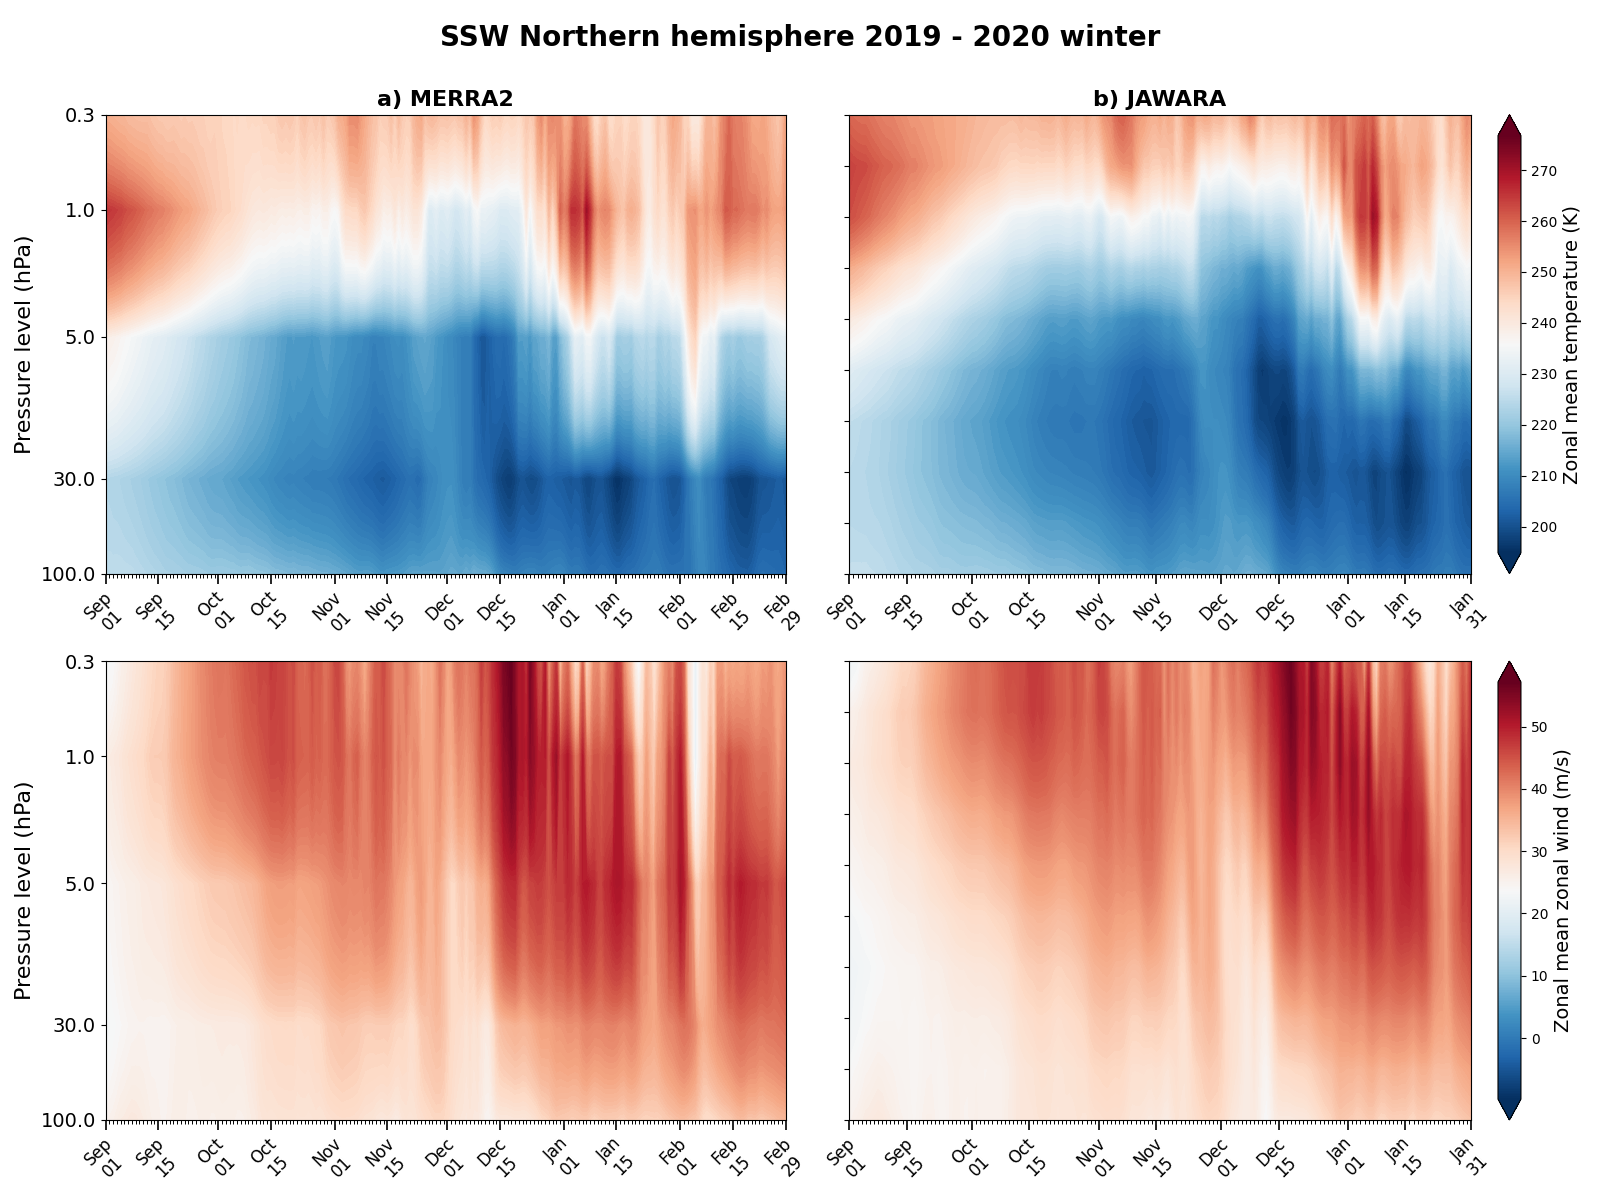
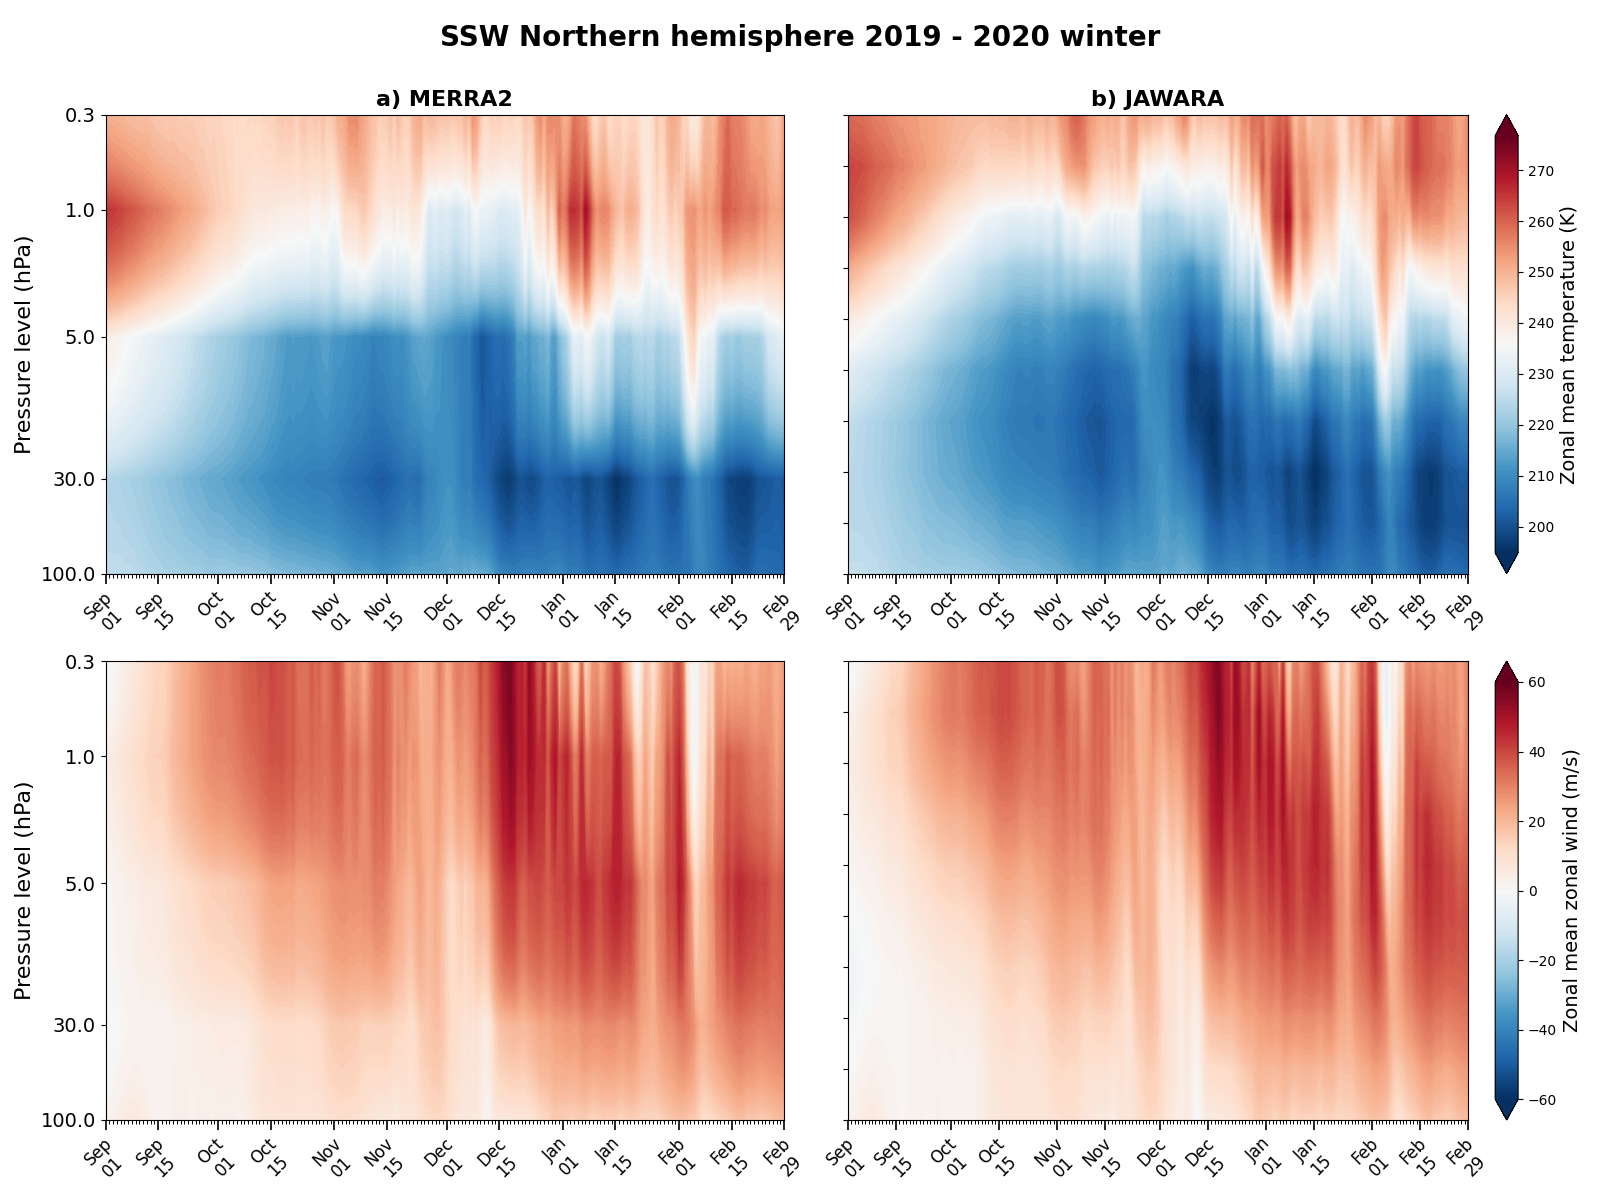
Grafy rozdílu merra a jawara

diff --git a/graphs.py b/graphs.py
@@ -6,22 +6,30 @@ from datetime import datetime
 from zpracovani import *
 
 def vykresli(ax, data, title, xlabels, ylabels, yticks, index, ncols,
-             vmin=None, vmax=None, cmap='RdBu_r', d=False):
+             vmin=None, vmax=None, cmap='RdBu_r', d=False, force_colorbar=False):
+
     data = np.array(data)
     y = np.array(ylabels, dtype=float)
     x = np.arange(len(xlabels))
 
     # Kontury
     if d:
-        cont = ax.contourf(x, y, data.T, cmap=cmap,
-                           vmin=-max(abs(vmin), abs(vmax), 4),
-                           vmax=max(abs(vmin), abs(vmax), 4),
-                           levels=100)
+        limit = max(abs(vmin), abs(vmax))
+        cont = ax.contourf(
+            x, y, data.T,
+            cmap=cmap,
+            vmin=-limit,
+            vmax=limit,
+            levels=100
+        )
     else:
-        cont = ax.contourf(x, y, data.T, cmap=cmap,
-                           vmin=vmin,
-                           vmax=vmax,
-                           levels=100)
+        cont = ax.contourf(
+            x, y, data.T,
+            cmap=cmap,
+            vmin=vmin,
+            vmax=vmax,
+            levels=100
+        )
 
     # Logaritmická osa Y
     ax.set_yscale('log')
@@ -40,23 +48,26 @@ def vykresli(ax, data, title, xlabels, ylabels, yticks, index, ncols,
         ax.set_yticks(yticks)
         ax.set_yticklabels([f"{val:.1f}" for val in yticks])
     else:
-        # pravé sloupce žádné Y tick labels
         ax.set_yticks(yticks)
         ax.set_yticklabels([])
 
     # X osa
     xticks = []
     xticklabels = []
+
     for i, label in enumerate(xlabels):
         day = datetime.strptime(label, "%d/%m/%Y").day
+
         if day in (1, 15) or i == len(xlabels) - 1:
             xticks.append(i)
             xticklabels.append(format_date_label(label))
 
     ax.set_xticks(xticks)
     ax.set_xticklabels(xticklabels, fontsize=12, rotation=45)
+
     minor_xticks = list(range(len(xlabels)))
     ax.set_xticks(minor_xticks, minor=True)
+
     ax.tick_params(axis='x', which='minor', length=3, width=0.7)
     ax.tick_params(axis='x', which='major', length=7, width=1.2)
 
@@ -64,12 +75,24 @@ def vykresli(ax, data, title, xlabels, ylabels, yticks, index, ncols,
     if row == 0:
         ax.set_title(title, fontsize=16, weight='bold')
 
-    # Colorbar pro pravé sloupce
-    if col != 0:
-        sm = mpl.cm.ScalarMappable(norm=mpl.colors.Normalize(vmin=vmin, vmax=vmax), cmap=cmap)
+    # Colorbar
+    if col != 0 or force_colorbar:
+        sm = mpl.cm.ScalarMappable(
+            norm=mpl.colors.Normalize(vmin=vmin, vmax=vmax),
+            cmap=cmap
+        )
+
         sm.set_array([])
-        cbar = plt.colorbar(sm, ax=ax, extend='both', orientation='vertical',
-                            fraction=0.046, pad=0.04)
+
+        cbar = plt.colorbar(
+            sm,
+            ax=ax,
+            extend='both',
+            orientation='vertical',
+            fraction=0.046,
+            pad=0.04
+        )
+
         if d:
             cbar.set_label("Zonal mean zonal wind (m/s)", fontsize=14)
         else:
@@ -79,6 +102,7 @@ def vykresli(ax, data, title, xlabels, ylabels, yticks, index, ncols,
 
 
 # --- Hlavní část ---
+
 datasets_list = [
     ("MERRA2", muf, mtf),
     ("JAWARA", wuf, wtf)
@@ -87,6 +111,7 @@ datasets_list = [
 results = []
 
 for name, fu, ft in datasets_list:
+
     u_data, ti, p = fu()
     t_data, _, _ = ft()
 
@@ -101,21 +126,53 @@ for name, fu, ft in datasets_list:
         "pressure": p
     })
 
+
+# --- výpočet rozdílu JAWARA - MERRA ---
+
+merra = next(r for r in results if r["name"] == "MERRA2")
+jawara = next(r for r in results if r["name"] == "JAWARA")
+
+p_merra = np.array(merra["pressure"], dtype=float)
+p_jawara = np.array(jawara["pressure"], dtype=float)
+
+mask = (p_merra <= 100) & (p_merra >= 0.1)
+
+p_merra_sel = p_merra[mask]
+idx_merra = np.where(mask)[0]
+
+idx_jawara = [np.abs(p_jawara - p).argmin() for p in p_merra_sel]
+
+t_merra_sel = merra["t"][:, idx_merra]
+u_merra_sel = merra["u"][:, idx_merra]
+
+t_jawara_sel = jawara["t"][:, idx_jawara]
+u_jawara_sel = jawara["u"][:, idx_jawara]
+
+t_diff = t_jawara_sel - t_merra_sel
+u_diff = u_jawara_sel - u_merra_sel
+
+
+# --- škály pro absolutní grafy ---
+
 vmin_temp = min(np.min(r["t"]) for r in results)
 vmax_temp = max(np.max(r["t"]) for r in results)
+
 vmin_wind = min(np.min(r["u"]) for r in results)
 vmax_wind = max(np.max(r["u"]) for r in results)
 
-n = len(results)
-fig, axs = plt.subplots(2, n, figsize=(8*n, 12))
 
-if n == 1:
-    axs = np.array([[axs[0]], [axs[1]]])
+# --- grafy datasetů ---
+
+n = len(results)
+
+fig, axs = plt.subplots(2, n, figsize=(8*n, 12))
 
 axs = axs.flatten()
 
 for i, r in enumerate(results):
+
     full_pressure = np.array(r["pressure"], dtype=float)
+
     yticks = full_pressure[(full_pressure <= 103) & (full_pressure >= 0.3)]
     yticks = yticks[::4]
     ytick_indices = [j for j, val in enumerate(full_pressure) if val in yticks]
@@ -123,7 +180,6 @@ for i, r in enumerate(results):
     t_data_sel = r["t"][:, ytick_indices]
     u_data_sel = r["u"][:, ytick_indices]
 
-    # levý horní graf: T
     vykresli(
         axs[i],
         t_data_sel,
@@ -138,7 +194,6 @@ for i, r in enumerate(results):
         d=False
     )
 
-    # pravý dolní graf: U
     vykresli(
         axs[i+n],
         u_data_sel,
@@ -148,12 +203,73 @@ for i, r in enumerate(results):
         full_pressure[ytick_indices],
         index=i+n,
         ncols=n,
-        vmin=vmin_wind,
-        vmax=vmax_wind,
+        vmin=-60,
+        vmax=60,
         d=True
     )
 
-fig.suptitle(f"SSW Northern hemisphere {rok} - {rok + 1} winter\n", fontsize=20, weight='bold')
+fig.suptitle(
+    f"SSW Northern hemisphere {rok} - {rok + 1} winter\n",
+    fontsize=20,
+    weight='bold'
+)
+
 plt.tight_layout()
 fig.savefig(f"graphs/{rok}.png")
+plt.close(fig)
+
+# --- difference graf ---
+limit_temp = np.nanpercentile(np.abs(t_diff), 98)
+limit_wind = np.nanpercentile(np.abs(u_diff), 98)
+
+fig, axs = plt.subplots(2, 1, figsize=(8, 12))
+axs = axs.flatten()
+
+full_pressure = p_merra_sel
+
+yticks = full_pressure[(full_pressure <= 103) & (full_pressure >= 0.3)]
+yticks = yticks[::4]
+ytick_indices = [j for j, val in enumerate(full_pressure) if val in yticks]
+
+t_data_sel = t_diff[:, ytick_indices]
+u_data_sel = u_diff[:, ytick_indices]
+
+vykresli(
+    axs[0],
+    t_data_sel,
+    "JAWARA - MERRA",
+    merra["time"],
+    full_pressure[ytick_indices],
+    full_pressure[ytick_indices],
+    index=0,
+    ncols=1,
+    vmin=-limit_temp,
+    vmax=limit_temp,
+    d=False,
+    force_colorbar=True
+)
+
+vykresli(
+    axs[1],
+    u_data_sel,
+    "",
+    merra["time"],
+    full_pressure[ytick_indices],
+    full_pressure[ytick_indices],
+    index=1,
+    ncols=1,
+    vmin=-limit_wind,
+    vmax=limit_wind,
+    d=True,
+    force_colorbar=True
+)
+
+fig.suptitle(
+    f"SSW Northern hemisphere {rok} - {rok + 1} winter",
+    fontsize=20,
+    weight='bold'
+)
+
+plt.tight_layout()
+fig.savefig(f"graphs/{rok}_difference.png")
 plt.close(fig)
